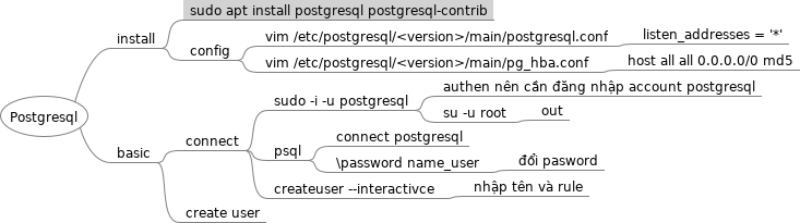
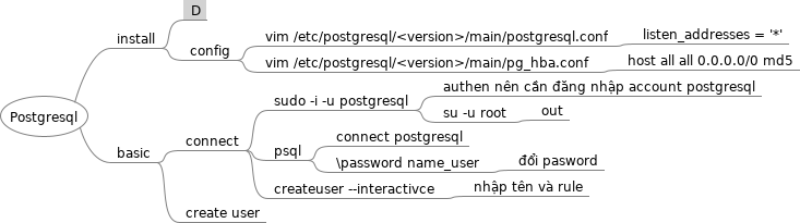
update

Changed region(s): [[0.2188, 0.0, 0.625, 0.1076]]

diff --git a/website/Web-developer roadmap -2018.mm b/website/Web-developer roadmap -2018.mm
@@ -161,6 +161,11 @@
 </node>
 <node CREATED="1562511525818" ID="ID_1225054100" MODIFIED="1562511537425" TEXT="npm run deploy"/>
 </node>
+<node CREATED="1565511379865" ID="ID_469155234" MODIFIED="1565511382097" TEXT="now">
+<node CREATED="1565511383076" ID="ID_1944141269" MODIFIED="1565511400833" TEXT="https://zeit.co/now#features"/>
+<node CREATED="1565511401144" ID="ID_750059731" MODIFIED="1565511408759" TEXT="npm install -g now"/>
+<node CREATED="1565511409089" ID="ID_1007898621" MODIFIED="1565511450502" TEXT="goto source and run: now"/>
+</node>
 </node>
 <node CREATED="1562859622489" ID="ID_1126299952" MODIFIED="1562859624376" POSITION="right" TEXT="testing">
 <node CREATED="1562859625391" ID="ID_1833119347" MODIFIED="1562859634673" TEXT="unit testing">
@@ -362,6 +367,26 @@
 </node>
 <node CREATED="1564355204073" ID="ID_1277190396" MODIFIED="1564355209508" TEXT="union">
 <node CREATED="1564355213576" ID="ID_253336091" MODIFIED="1564355253704" TEXT="let variable = string | number = 124"/>
+</node>
+</node>
+</node>
+<node CREATED="1565405749119" ID="ID_1165777626" MODIFIED="1565511053746" POSITION="left" TEXT="SSR (server side renderting)">
+<node CREATED="1565405807316" ID="ID_537246765" MODIFIED="1565405820376" TEXT="lib">
+<node CREATED="1565405823298" ID="ID_1213719044" MODIFIED="1565405835951" TEXT="GatsBy"/>
+<node CREATED="1565405836203" ID="ID_1982587771" MODIFIED="1565405839192" TEXT="Nextjs">
+<node CREATED="1565511069254" ID="ID_1221056146" MODIFIED="1565511089784" TEXT="install">
+<node CREATED="1565511090341" ID="ID_702174852" MODIFIED="1565511104345" TEXT="npm install next react react-dom"/>
+</node>
+<node CREATED="1565511121929" ID="ID_1306788035" MODIFIED="1565511131221" TEXT="route">
+<node CREATED="1565511132219" ID="ID_672624618" MODIFIED="1565511146774" TEXT="Import Link from &apos;next/link&apos;"/>
+</node>
+<node CREATED="1565511150393" ID="ID_20245728" MODIFIED="1565511159081" TEXT="public folder">
+<node CREATED="1565511159934" ID="ID_756151131" MODIFIED="1565511178571" TEXT="/static"/>
+</node>
+<node CREATED="1565511179665" ID="ID_892227169" MODIFIED="1565511188773" TEXT="fetch api">
+<node CREATED="1565511189582" ID="ID_180764818" MODIFIED="1565511220039" TEXT="npm install isomorphic-unfetch"/>
+<node CREATED="1565511221430" ID="ID_589990910" MODIFIED="1565511349265" TEXT="nameComponent.getInitialProps = async () =&gt; ({...props})"/>
+</node>
 </node>
 </node>
 </node>

diff --git a/database/postgresql.mm b/database/postgresql.mm
@@ -2,7 +2,7 @@
 <!-- To view this file, download free mind mapping software FreeMind from http://freemind.sourceforge.net -->
 <node CREATED="1565193084951" ID="ID_677775254" MODIFIED="1565193201204" TEXT="Postgresql">
 <node CREATED="1565193202890" ID="ID_1843440148" MODIFIED="1565193205560" POSITION="right" TEXT="install">
-<node CREATED="1565193206689" ID="ID_1731462255" MODIFIED="1565195692256" TEXT="sudo apt install postgresql postgresql-contrib"/>
+<node CREATED="1565193206689" ID="ID_1731462255" MODIFIED="1565405599734" TEXT="D"/>
 <node CREATED="1565193215788" ID="ID_415906725" MODIFIED="1565193221919" TEXT="config">
 <node CREATED="1565193226000" ID="ID_1562843564" MODIFIED="1565193353786" TEXT="vim /etc/postgresql/&lt;version&gt;/main/postgresql.conf">
 <node CREATED="1565193272164" ID="ID_1128485942" MODIFIED="1565193288594" TEXT="listen_addresses = &apos;*&apos;"/>
